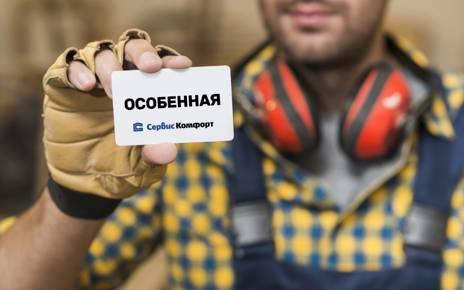
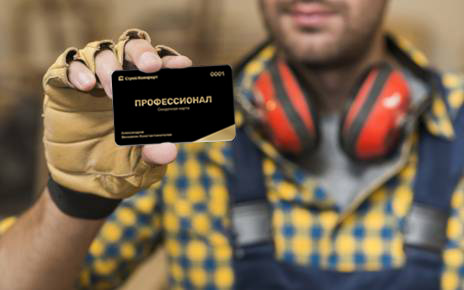
предчистовая без работы форм

Changed region(s): [[0.2414, 0.2172, 0.5129, 0.5276]]

diff --git a/index.html b/index.html
@@ -46,9 +46,9 @@
       <ul class="cases__list owl-carousel owl-theme">
         <li class="cases__item">
           <div class="cases__media">
-            <div class="cases__img-container">
+            <a class="cases__img-link" data-fancybox href="https://youtu.be/i5Dcn3kXHfU">
               <img src="/serviskomfort/img/cases/case-1.jpg" alt="Ремонт квартиры в ЖК Оштен, г. Майкоп" class="cases__img">
-            </div>
+            </a>
           </div>
           <div class="cases__content">
             <h3 class="cases__object-title">Ремонт квартиры в ЖК Оштен, г. Майкоп</h3>
@@ -64,38 +64,59 @@
         </li>
         <li class="cases__item">
           <div class="cases__media">
-            <div class="cases__img-container">
-              <img src="/serviskomfort/img/cases/case-1.jpg" alt="Ремонт квартиры в ЖК Оштен, г. Майкоп" class="cases__img">
-            </div>
+            <a class="cases__img-link" data-fancybox href="https://youtu.be/HQpscEmYtFc">
+              <img src="/serviskomfort/img/cases/case-2.jpg" alt="Кровля с нуля. Полное снабжение объекта для возведения крыши." class="cases__img">
+            </a>
           </div>
           <div class="cases__content">
-            <h3 class="cases__object-title">Ремонт квартиры в ЖК Оштен, г. Майкоп</h3>
-            <p class="cases__paragraph">Ремонт однокомнатной квартиры в жилищном комплексе Оштен по программе "Комфорт". Совместно с клиентом согласовали дизайн всех помещений. Мы произвели все замеры и подбор материалов и мебели.</p>
-            <ul class="cases__products owl-carousel owl-theme">
-              <li class="cases__product">Двери межкомнатные "Лагерта". Цвет эмаль ваниль. Беларусь.</li>
-              <li class="cases__product">Ламинат Madera Nature. Цвет дуб африканский, класс 34, толщина 12мм.</li>
-              <li class="cases__product">Кухня под заказ. Цвет фасада коньячный дуб. Blum с доводчиком.</li>
-              <li class="cases__product">Стол раздвижной Хаммер. Мебельная фабрика "Триумф-М".</li>
+            <h3 class="cases__object-title">Кровля с нуля.<br>Полное снабжение объекта для возведения крыши.</h3>
+            <p class="cases__paragraph">К нам обратился покупатель, которому нужны были кровельные материалы для его крыши. Мы посоветовали ему специалистов кровельщиков. Произвели расчет, согласовали с покупателем и доставили весь материал на объект.</p>
+            <p class="cases__paragraph">Были использованы следующие материалы:</p>
+            <ul class="cases__products">
+              <li class="cases__product">Металлочерепица "Дюна" Испания.</li>
+              <li class="cases__product">Покрытие Матовый гранит Нью (Корея).</li>
+              <li class="cases__product">Толщина стали: 0.5мм. Краска 35микрон. 1 класс цинкования</li>
+              <li class="cases__product">Снегозадержатели, коньки.</li>
+              <li class="cases__product">Вентиляция компании "Кровент"</li>
+              <li class="cases__product">Водосточная система и подшив карнизного свеса в цвете 7024 "Серый графит".</li>
+            </ul>
+            <p class="cases__paragraph">Кровельные работы завершены. Если вам необходимы кровельные материалы, обращайтесь в СтройКомфорт Майкоп.</p>
+          </div>
+        </li>
+        <li class="cases__item">
+          <div class="cases__media">
+            <a class="cases__img-link" data-fancybox href="https://youtu.be/Jy07ke-_TBE">
+              <img src="/serviskomfort/img/cases/case-3.jpg" alt="Забор из фирменного блока компании Выбор-С" class="cases__img">
+            </a>
+          </div>
+          <div class="cases__content">
+            <h3 class="cases__object-title">Забор из фирменного блока компании Выбор-С</h3>
+            <p class="cases__paragraph">Клиент поставил нам непростую задачу - сделать ей забор не такой как у всех. Ей нужна была крепость!</p>
+            <p class="cases__paragraph">Мы предоставили:</p>
+            <ul class="cases__products">
+              <li class="cases__product">Заборный блок компании Выбор-С</li>
+              <li class="cases__product">Цвет "Доломит"</li>
+              <li class="cases__product">Простеночные блоки, блоки для колонн и плиты накрывные.</li>
+              <li class="cases__product">У клиента не было мастера, поэтому мы предложили специалиста, который работает с нами по программе Сервиса Комфорт. И он прекрасно справился со своей задачей!</li>
             </ul>
             <p class="cases__paragraph">Если у вас нет времени на ремонт, или нет возможности контролировать вашу стройку, звоните и приезжайте к нам в магазин СтройКомфорт.</p>
           </div>
         </li>
         <li class="cases__item">
           <div class="cases__media">
-            <div class="cases__img-container">
-              <img src="/serviskomfort/img/cases/case-1.jpg" alt="Ремонт квартиры в ЖК Оштен, г. Майкоп" class="cases__img">
-            </div>
+            <a class="cases__img-link" data-fancybox href="https://youtu.be/ueYiOC9P_uY">
+              <img src="/serviskomfort/img/cases/case-4.jpg" alt="Подбор и полное снабжение частного дома тротуарной плиткой." class="cases__img">
+            </a>
           </div>
           <div class="cases__content">
-            <h3 class="cases__object-title">Ремонт квартиры в ЖК Оштен, г. Майкоп</h3>
-            <p class="cases__paragraph">Ремонт однокомнатной квартиры в жилищном комплексе Оштен по программе "Комфорт". Совместно с клиентом согласовали дизайн всех помещений. Мы произвели все замеры и подбор материалов и мебели.</p>
-            <ul class="cases__products owl-carousel owl-theme">
-              <li class="cases__product">Двери межкомнатные "Лагерта". Цвет эмаль ваниль. Беларусь.</li>
-              <li class="cases__product">Ламинат Madera Nature. Цвет дуб африканский, класс 34, толщина 12мм.</li>
-              <li class="cases__product">Кухня под заказ. Цвет фасада коньячный дуб. Blum с доводчиком.</li>
-              <li class="cases__product">Стол раздвижной Хаммер. Мебельная фабрика "Триумф-М".</li>
+            <h3 class="cases__object-title">Подбор и полное снабжение частного дома тротуарной плиткой.</h3>
+            <p class="cases__paragraph">На объекте была использована тротуарная плитка Выбор-С.</p>
+            <ul class="cases__products">
+              <li class="cases__product">Коллекция "Антик".</li>
+              <li class="cases__product">Цвет "Стоун Микс". Черная, белая и черно-белая.</li>
+              <li class="cases__product">В комплекте 5 камней различной формы</li>
             </ul>
-            <p class="cases__paragraph">Если у вас нет времени на ремонт, или нет возможности контролировать вашу стройку, звоните и приезжайте к нам в магазин СтройКомфорт.</p>
+            <p class="cases__paragraph">Весь основной и сопутствующий материал на протяжении всех тротуарных работ подбирался нашим профильным специалистом по тротуарной плитке.</p>
           </div>
         </li>
       </ul>
@@ -169,8 +190,7 @@
           <div class="steps__content">
             <h3 class="steps__title">Цена</h3>
             <ul class="steps__step-list">
-              <li class="steps__step-item">Специальные условия и скидки по карте ограниченной серии «Особенная». Карта выдается при подключении к программе.</li>
-              <li class="steps__step-item">Фиксированная стоимость????</li>
+              <li class="steps__step-item">Специальные условия и скидки по карте ограниченной серии «Профессионал». Карта выдается при подключении к программе.</li>
             </ul>
           </div>
           <div class="steps__img-container">

diff --git a/serviskomfort/css/style.css b/serviskomfort/css/style.css
@@ -303,6 +303,9 @@
 
 .sk-theme .cases {
   background-color: #fff;
+  border: 1px solid rgba(203, 203, 203, 0.6);
+  -webkit-box-shadow: 0 0 50px -10px rgba(0, 0, 0, 0.05);
+  box-shadow: 0 0 50px -10px rgba(0, 0, 0, 0.05);
 }
 @media (max-width: 767px) {
   .sk-theme .cases {
@@ -387,14 +390,34 @@
     width: 47%;
   }
 }
-.sk-theme .cases__img-container {
+.sk-theme .cases__img-link {
+  display: block;
   font-size: 0;
   width: 100%;
   position: relative;
 }
-.sk-theme .cases__img-container::after {
+.sk-theme .cases__img-link::after {
   position: absolute;
   content: "";
+  width: 60px;
+  height: 60px;
+  border-radius: 50%;
+  left: 50%;
+  top: 50%;
+  -webkit-transform: translate(-50%, -50%);
+  transform: translate(-50%, -50%);
+  background-repeat: no-repeat;
+  background-position: 55% center;
+  background-size: 20px 18px;
+  background-image: url("/serviskomfort/img/play.svg");
+  background-color: #fff;
+}
+@media (min-width: 1200px) {
+  .sk-theme .cases__img-link::after {
+    width: 80px;
+    height: 80px;
+    background-size: 26px 24px;
+  }
 }
 @media (max-width: 767px) {
   .sk-theme .cases__content {
@@ -543,6 +566,9 @@
 .sk-theme .program__wrapper {
   background-color: #fff;
   max-width: 1280px;
+  border: 1px solid rgba(203, 203, 203, 0.6);
+  -webkit-box-shadow: 0px 0px 50px -10px rgba(0, 0, 0, 0.05);
+  box-shadow: 0px 0px 50px -10px rgba(0, 0, 0, 0.05);
   margin-left: auto;
   margin-right: auto;
 }
@@ -730,6 +756,9 @@
 }
 .sk-theme .steps__item {
   background-color: #fff;
+  border: 1px solid rgba(203, 203, 203, 0.6);
+  -webkit-box-shadow: 0 0 50px -10px rgba(0, 0, 0, 0.05);
+  box-shadow: 0 0 50px -10px rgba(0, 0, 0, 0.05);
 }
 @media (max-width: 767px) {
   .sk-theme .steps__item {

diff --git a/serviskomfort/sass/pages/sk/cases.scss b/serviskomfort/sass/pages/sk/cases.scss
@@ -1,6 +1,8 @@
 .sk-theme {
   .cases {
     background-color: #fff;
+    border: 1px solid rgba(203, 203, 203, 0.6);
+    box-shadow: 0 0 50px -10px rgba(0, 0, 0, 0.05);
     @media #{$max-mobile-width} {
       padding-top: 24px;
       margin-bottom: 125px;
@@ -59,14 +61,30 @@
       width: 47%;
     }
   }
-  .cases__img-container {
+  .cases__img-link {
+    display: block;
     font-size: 0;
     width: 100%;
     position: relative;
     &::after {
       position: absolute;
       content: "";
-
+      width: 60px;
+      height: 60px;
+      border-radius: 50%;
+      left: 50%;
+      top: 50%;
+      transform: translate(-50%, -50%);
+      background-repeat: no-repeat;
+      background-position: 55% center;
+      background-size: 20px 18px;
+      background-image: url("/serviskomfort/img/play.svg");
+      background-color: #fff;
+      @media #{$min-desktop-width} {
+        width: 80px;
+        height: 80px;
+        background-size: 26px 24px;
+      }
     }
   }
   .cases__content {

diff --git a/serviskomfort/sass/pages/sk/program.scss b/serviskomfort/sass/pages/sk/program.scss
@@ -17,6 +17,8 @@
   .program__wrapper {
     background-color: #fff;
     max-width: 1280px;
+    border: 1px solid rgba(203, 203, 203, 0.6);
+    box-shadow: 0px 0px 50px -10px rgba(0, 0, 0, 0.05);
     @include centers;
     @media #{$max-mobile-width} {
       padding-top: 24px;

diff --git a/serviskomfort/sass/pages/sk/steps.scss b/serviskomfort/sass/pages/sk/steps.scss
@@ -9,6 +9,8 @@
   }
   .steps__item {
     background-color: #fff;
+    border: 1px solid rgba(203, 203, 203, 0.6);
+    box-shadow: 0 0 50px -10px rgba(0, 0, 0, 0.05);
     @media #{$max-mobile-width} {
       margin-top: 30px;
     }
